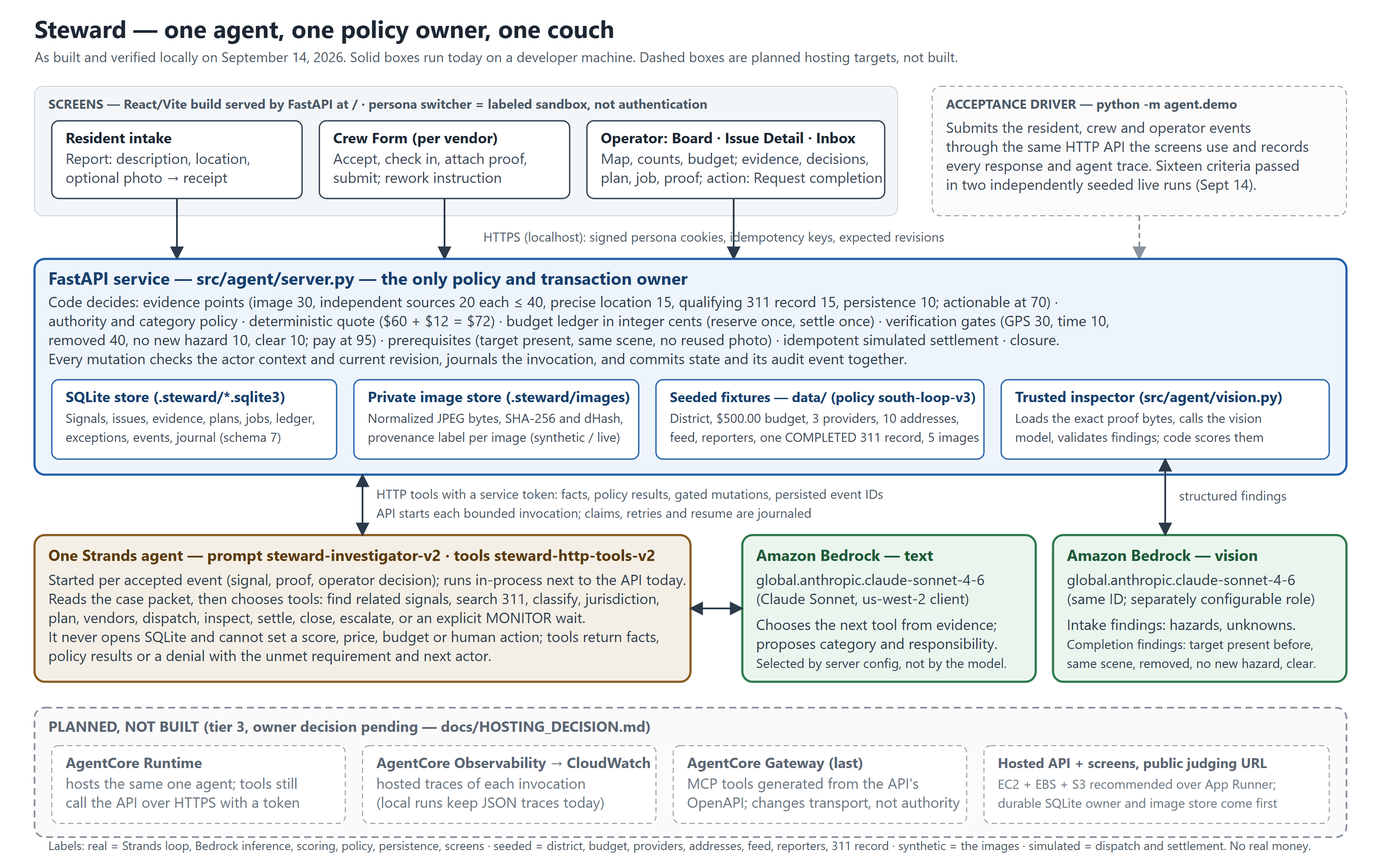
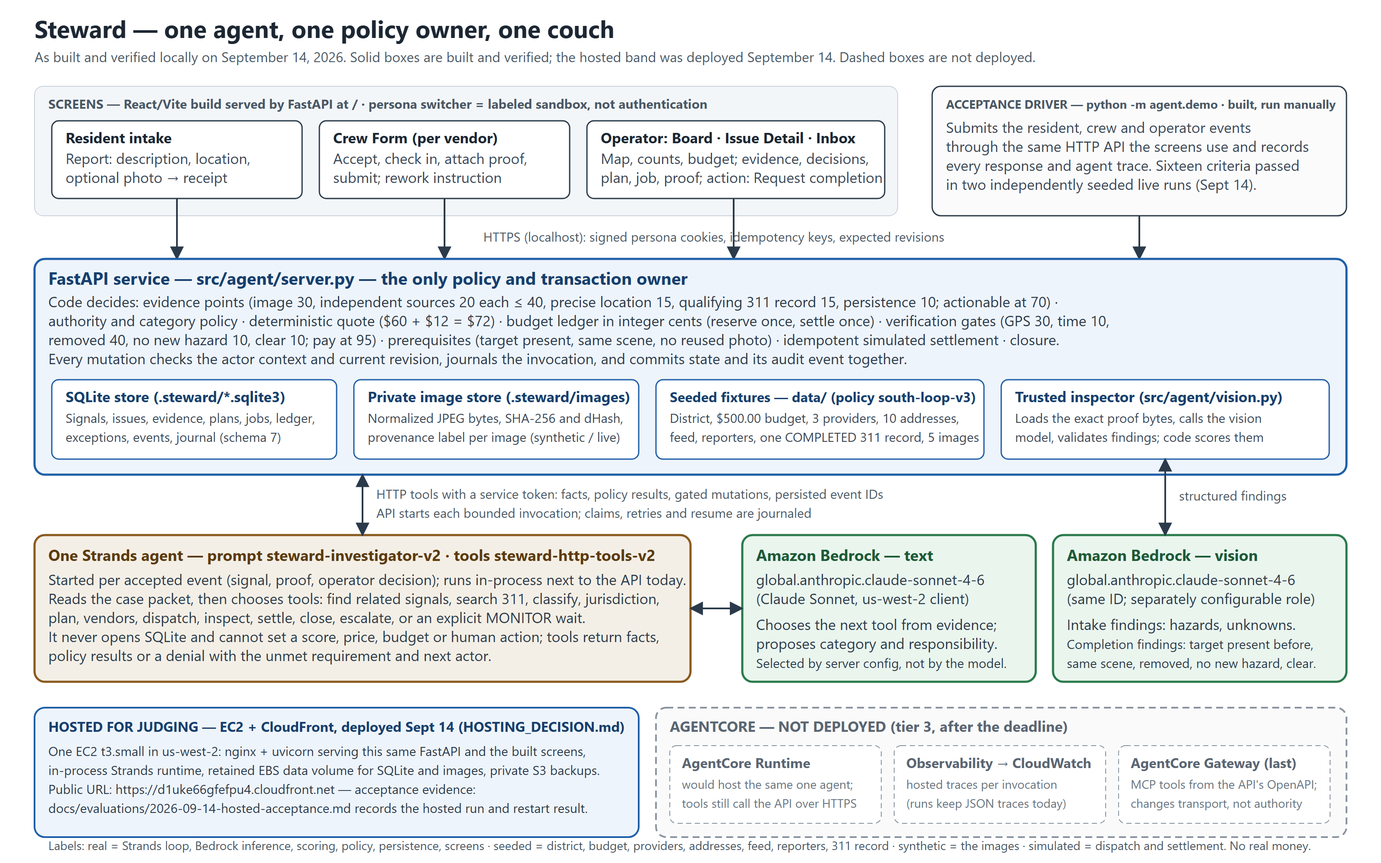
Fix round 1: hosted judging URL, honest credential wording, repo URL, npm ci
SUBMISSION.md names the real public repository URL (the git remote,
github.com/juulsverne/steward), makes the hosted EC2 + CloudFront system
the primary judging access with clone-and-run as the fallback, and states
that the hosted acceptance evidence file records the result rather than
claiming it. The credential line now says no secrets were found and names
the two low-sensitivity local-path disclosures (a tracked plan file and
one historical commit). README and ARCHITECTURE carry the same hosting
status; AgentCore Runtime, Observability and Gateway stay labeled not
deployed. The diagram's driver box is solid and its bottom band is split
into hosting (built) and AgentCore (not deployed); PNG re-rendered.
README and DEMO use npm ci, state the Node version and the jsdom engine
warning, and say to seed before the first start.

Changed region(s): [[0.0312, 0.837, 0.9375, 0.961], [0.3125, 0.062, 0.9688, 0.124], [0.8125, 0.248, 0.8438, 0.279]]

diff --git a/docs/SUBMISSION.md b/docs/SUBMISSION.md
@@ -16,11 +16,13 @@ A neighborhood operator hears about the same dumped couch three times: a communi
 
 **Who it is for.** District operators (business improvement districts, neighborhood associations, community-benefit organizations) who already pay approved providers for supplemental cleanup and who today reconcile reports, records and crew photos by hand. Residents report without knowing jurisdiction or contractor categories. Crews see exactly what remains after a rejection.
 
-**What was proven and what was not.** The sixteen-step couch acceptance passed live through the API in two independently seeded runs on September 14 with real Bedrock text and vision, and the same journey was driven again and read back on every screen (`docs/DEMO.md`, `docs/evaluations/2026-09-14-ui-walk.md`). 703 offline tests pass; a twelve-comparison vision check scored 12/12. The twenty-two-scenario internal evaluation has **not** run, so no accuracy or reliability figure is claimed. Nothing is hosted: AgentCore Runtime, Observability and Gateway and a public URL are planned, not built. The district, budget, providers, addresses, reporter identities, community feed and 311 record are seeded fixtures; the photos are synthetic images generated for this project with published prompts; dispatch and settlement are simulated. No real money or municipal work is involved.
+**What was proven and what was not.** The sixteen-step couch acceptance passed live through the API in two independently seeded runs on September 14 with real Bedrock text and vision, and the same journey was driven again and read back on every screen (`docs/DEMO.md`, `docs/evaluations/2026-09-14-ui-walk.md`). 703 offline tests pass; a twelve-comparison vision check scored 12/12. The twenty-two-scenario internal evaluation has **not** run, so no accuracy or reliability figure is claimed. Hosted for judging on EC2 + CloudFront (deployed September 14; acceptance evidence: docs/evaluations/2026-09-14-hosted-acceptance.md). The hosted acceptance run and restart durability proof were still in progress when this was written; that evidence file records the result. AgentCore Runtime, Observability and Gateway are not deployed. The district, budget, providers, addresses, reporter identities, community feed and 311 record are seeded fixtures; the photos are synthetic images generated for this project with published prompts; dispatch and settlement are simulated. No real money or municipal work is involved.
 
 ## Judging access
 
-There is **no hosted URL**. Judging access is the documented clone-and-run path in [README.md](../README.md#run-it-yourself): clone the repository, `uv sync --locked --extra dev --extra web`, build the frontend, put two generated secrets and your own AWS profile in `.env`, seed, start the API with `STEWARD_RUNTIME_ENABLED=true`, and run `python -m agent.demo`. It requires the judge's own AWS account with Bedrock access to `global.anthropic.claude-sonnet-4-6` and costs a few dollars of inference per full run. Everything else (screens, tests, the offline scoring harness, the seeded state) runs without AWS. The rules ask for free, unrestricted access through October 8; a bring-your-own-AWS setup is the fallback we can offer today and is disclosed as such. If the owner later authorizes hosting, the URL goes in "Final links" below and this paragraph changes.
+**Primary: the hosted system.** Hosted for judging on EC2 + CloudFront (deployed September 14; acceptance evidence: docs/evaluations/2026-09-14-hosted-acceptance.md). Public URL: `https://d1uke66gfefpu4.cloudfront.net` — one EC2 `t3.small` in `us-west-2` with a retained EBS data volume for SQLite and images, private S3 backups, nginx + uvicorn, the in-process Strands runtime, behind CloudFront. It serves `/health` and the Board; pick a persona in the header (a labeled sandbox, not authentication) and walk the Board, Issue Detail, Inbox, Crew Form and Report screens. The hosted acceptance run and the restart/reboot durability proof are recorded by the hosting worker in `docs/evaluations/2026-09-14-hosted-acceptance.md`, with the decision in [HOSTING_DECISION.md](HOSTING_DECISION.md); this checklist does not claim their result. The rules ask for free, unrestricted access through October 8; the owner keeps the instance up through that date.
+
+**Fallback: clone and run.** The documented path in [README.md](../README.md#run-it-yourself): clone the repository, `uv sync --locked --extra dev --extra web`, build the frontend, put two generated secrets and your own AWS profile in `.env`, seed, start the API with `STEWARD_RUNTIME_ENABLED=true`, and run `python -m agent.demo`. It requires the judge's own AWS account with Bedrock access to `global.anthropic.claude-sonnet-4-6` and costs a few dollars of inference per full run. Everything else (screens, tests, the offline scoring harness, the seeded state) runs without AWS.
 
 ## What is implemented and what is not
 
@@ -35,8 +37,8 @@ There is **no hosted URL**. Judging access is the documented clone-and-run path 
 | Synthetic images with prompts and fingerprints; supplemental evaluation images | Implemented and documented |
 | Twenty-two-scenario internal evaluation (`python -m agent.evaluate`) | **Not run; command not built (P8)** |
 | Plain-model comparison arm | Not built (tier 4) |
-| AgentCore Runtime / Observability / Gateway | **Not built (tier 3)** |
-| Hosted API and screens with a public judging URL | **Not built**; recommendation in [HOSTING_DECISION.md](HOSTING_DECISION.md), owner decision pending |
+| AgentCore Runtime / Observability / Gateway | **Not deployed** (tier 3); the agent runs in-process next to the API, locally and on the hosted instance |
+| Hosted API and screens with a public judging URL | Hosted for judging on EC2 + CloudFront (deployed September 14; acceptance evidence: docs/evaluations/2026-09-14-hosted-acceptance.md); decision in [HOSTING_DECISION.md](HOSTING_DECISION.md) |
 | Live Chicago 311 lookup, Amazon Location geocoding | Not built (tier 4, flags); seeded fixtures are used |
 | Clean-install proof from a fresh clone with recorded commands | In progress (R1) on September 14; not yet recorded here |
 | Real payments, identity verification, policy editor, multiple agents | Excluded by design (PRD 4.6) |
@@ -50,9 +52,9 @@ There is **no hosted URL**. Judging access is the documented clone-and-run path 
 - [x] Recording script for a demo of at most five minutes ([DEMO.md](DEMO.md#recording-script--maximum-5-minutes)).
 - [x] Disclosure of incorporated pre-existing work and third-party rights (below).
 - [ ] **Owner:** register on Devpost and provide the AWS Builder ID.
-- [ ] **Owner:** make the repository public with all source, assets and instructions (the frontend footer already links to `https://github.com/juulsverne/agents-for-humans`; confirm that is the public URL or change the footer).
+- [ ] **Owner:** make the repository public with all source, assets and instructions. Public repository URL: `https://github.com/juulsverne/steward` (the git remote; the frontend footer's Source link points there too). It is private until the owner flips it.
 - [ ] **Owner:** record the video from the script, upload it to YouTube or Vimeo as public, and test the link signed out.
-- [ ] **Owner:** judging access — paste the clone-and-run paragraph above, or a hosted URL if one is authorized later.
+- [ ] **Owner:** judging access — paste the hosted URL and the clone-and-run fallback from above; keep the instance running through October 8.
 - [ ] **Owner:** save the Devpost submission and verify it before the deadline.
 
 ## Steward release checks
@@ -63,7 +65,7 @@ There is **no hosted URL**. Judging access is the documented clone-and-run path 
 - [ ] Clean install from scratch with recorded commands and results (R1, in progress).
 - [x] Real/seeded/synthetic/simulated labels match runtime behavior, screenshots and the recording script.
 - [ ] Evaluation counts, denominators, failures and limitations — **not available; the evaluation has not run.** The video and description say so.
-- [x] No credentials or private material in the published tree or history (see the provenance pass below).
+- [x] No secrets or credentials in the tree or history; two low-sensitivity local-path disclosures remain and are named in the rights section below, flagged for the owner.
 - [ ] **Owner:** video, repository, judging access and submission links tested while signed out.
 - [ ] **Owner:** Devpost submission saved and verified.
 
@@ -74,16 +76,16 @@ There is **no hosted URL**. Judging access is the documented clone-and-run path 
 - Map tiles are requested from `tile.openstreetmap.org` at runtime with the "Map data © OpenStreetMap contributors" caption shown under the map; nothing is cached or redistributed.
 - The five demo images and six supplemental images are synthetic, generated for this project on September 13 from prompts published in [data/images/PROVENANCE.md](../data/images/PROVENANCE.md) and [data/images/supplemental/PROMPTS.md](../data/images/supplemental/PROMPTS.md); fingerprints are in the manifests. The generation tool's terms govern their use; they depict no real place, person or incident.
 - All other fixtures (district, budget, providers, addresses, reporters, feed, 311 record) are invented demo data ([data/README.md](../data/README.md)). Chicago and the South Loop are used as a setting only; no municipal data or authority is claimed.
-- The credential/provenance pass on September 14 grepped the tree and full history for keys, tokens and private paths; `.env`, `.steward/`, local notes and worktrees are gitignored and absent from history. Findings are in the P9 report; anything unresolved is listed there for the owner.
+- The credential/provenance pass on September 14 grepped the tree and full history for keys, tokens and private paths. No secrets or credentials were found; `.env`, `.steward/`, local notes and worktrees are gitignored and were never committed. Two low-sensitivity local-path disclosures remain, flagged for the owner: the tracked plan file `docs/superpowers/plans/2026-09-14-frontend.md` contains the literal path `D:\devgents-for-humans\.worktrees\steward-build`, and the historical commit `2a49c02` (reachable from `main`; its files `docs/MAC-REMOTE.md` and `scripts/mac-session.sh` were removed in `c2f4497` but not purged) contains `/Users/cara/...` paths and an ssh host alias `mac-mini-tailscale`. Neither contains a credential.
 
 ## Tiers 3 and 4 after the deadline
 
-AgentCore Runtime, Observability and Gateway plus a hosted judging URL are tier 3; live 311, Amazon Location and the plain-model evaluation arm are tier 4. [EVALUATION.md](EVALUATION.md) defines equal model/input conditions and how any separate model arm must disclose its differences. None of these displaces the working couch, the evaluation, README, diagram or video. The AWS credit request deadline (September 11) has passed and is not an open prerequisite.
+AgentCore Runtime, Observability and Gateway are the remaining tier 3 items (the hosted judging URL is deployed); live 311, Amazon Location and the plain-model evaluation arm are tier 4. [EVALUATION.md](EVALUATION.md) defines equal model/input conditions and how any separate model arm must disclose its differences. None of these displaces the working couch, the evaluation, README, diagram or video. The AWS credit request deadline (September 11) has passed and is not an open prerequisite.
 
 ## Final links — fill when real
 
-- Public repository: pending owner action (see the footer URL note above)
-- Judging access and instructions: clone-and-run, [README.md](../README.md#run-it-yourself); hosted URL none
+- Public repository: `https://github.com/juulsverne/steward` (private until the owner makes it public)
+- Judging access and instructions: `https://d1uke66gfefpu4.cloudfront.net` (hosted, see above); clone-and-run fallback in [README.md](../README.md#run-it-yourself)
 - Public video: pending owner recording and upload
 - Devpost submission: pending owner action
-- Clean-install/acceptance run evidence: acceptance in [DEMO.md](DEMO.md#run-artifacts) and the [UI walk](evaluations/2026-09-14-ui-walk.md); clean install pending R1
+- Clean-install/acceptance run evidence: local acceptance in [DEMO.md](DEMO.md#run-artifacts) and the [UI walk](evaluations/2026-09-14-ui-walk.md); hosted acceptance in `docs/evaluations/2026-09-14-hosted-acceptance.md` (written by the hosting worker); clean install in the R1 report, pending integration

diff --git a/README.md b/README.md
@@ -10,7 +10,9 @@ Built for the **Good Neighbor Agents** track of the AWS Agents for Humans Hackat
 
 **Done and verified locally.** The full couch journey runs end to end with real Bedrock inference: the sixteen-step acceptance passed through the API in two independently seeded live runs (Sonnet text and vision, `us-west-2`; B13 receipt in [BUILD_PLAN.md](docs/BUILD_PLAN.md#b13-completion-receipt--september-14)), and the same journey was driven again on September 14 and read back on the operations UI — Board, Issue Detail, Operator Inbox, Crew Form and Resident intake — with screenshots per criterion in [the UI walk](docs/evaluations/2026-09-14-ui-walk.md). The offline suite is 703 tests; the twelve-comparison vision check is 12/12 ([vision spike](docs/evaluations/2026-09-13-vision-spike.md)); the model screen is in [MODEL_SELECTION.md](docs/MODEL_SELECTION.md).
 
-**Not done.** The twenty-two-scenario internal evaluation ([EVALUATION.md](docs/EVALUATION.md)) has not run, so no evaluation counts are published. Nothing is hosted: AgentCore Runtime, Observability, Gateway and a public judging URL are planned, not built; the hosting recommendation in [HOSTING_DECISION.md](docs/HOSTING_DECISION.md) awaits the owner's decision. Judging access is therefore clone-and-run with your own AWS Bedrock access ([SUBMISSION.md](docs/SUBMISSION.md)). Clean-install proof from a fresh clone is being recorded separately (R1); the run below was verified on the developers' machines.
+**Hosted.** Hosted for judging on EC2 + CloudFront (deployed September 14; acceptance evidence: docs/evaluations/2026-09-14-hosted-acceptance.md). Public URL: `https://d1uke66gfefpu4.cloudfront.net` — one EC2 `t3.small` in `us-west-2` with a retained EBS volume for SQLite and images, private S3 backups, nginx + uvicorn and the in-process Strands runtime, behind CloudFront; the decision is in [HOSTING_DECISION.md](docs/HOSTING_DECISION.md). The hosted acceptance run and restart durability proof were in progress when this was written; the evidence file records their result. AgentCore Runtime, Observability and Gateway are **not deployed**.
+
+**Not done.** The twenty-two-scenario internal evaluation ([EVALUATION.md](docs/EVALUATION.md)) has not run, so no evaluation counts are published. Clean-install proof from a fresh clone was recorded separately (R1) and is pending integration; the run below was verified on the developers' machines. Judging access is the hosted URL, with clone-and-run using your own AWS Bedrock access as the fallback ([SUBMISSION.md](docs/SUBMISSION.md)).
 
 **What the demo is.** A driven live run: the agent and vision calls are real Bedrock calls; the district, authority, budget, providers, addresses, reporter identities, community feed and the 311 record are seeded fixtures; the five photos are synthetic images with published prompts ([provenance](data/images/PROVENANCE.md)); dispatch and settlement are simulated. No real money or municipal work is authorized. Labels travel with the records and are shown on the screens.
 
@@ -18,17 +20,17 @@ The competition proof is one couch: wait at evidence score 65; corroborate at 85
 
 ## Run it yourself
 
-You need: Python 3.11+, [uv](https://docs.astral.sh/uv/), Node.js 22 or newer with npm, the AWS CLI, and an AWS account with Amazon Bedrock model access to `global.anthropic.claude-sonnet-4-6` (a cross-region inference profile; the client binds to `us-west-2`). Each full run makes five agent invocations plus the photo inspections (about 574k input tokens in the recorded run); you pay for that inference. The recorded runs were made on Windows 11 in Git Bash; nothing in the commands is Windows-specific.
+You need: Python 3.11+, [uv](https://docs.astral.sh/uv/), Node.js 22 or newer with npm (`npm ci` prints an `EBADENGINE` warning but still installs under Node 24.12–24.14 because of the frontend's `jsdom` devDependency), the AWS CLI, and an AWS account with Amazon Bedrock model access to `global.anthropic.claude-sonnet-4-6` (a cross-region inference profile; the client binds to `us-west-2`). Each full run makes five agent invocations plus the photo inspections (about 574k input tokens in the recorded run); you pay for that inference. The recorded runs were made on Windows 11 in Git Bash; nothing in the commands is Windows-specific.
 
 ### 1. Install
 
 ```bash
 git clone <this repository> && cd agents-for-humans
 uv sync --locked --extra dev --extra web
-cd frontend && npm install && npm run build && cd ..
+cd frontend && npm ci && npm run build && cd ..
 ```
 
-The frontend build lands in `frontend/dist`, which the API serves at `/`.
+`npm ci` is the locked, reproducible install (`frontend/package-lock.json` is committed). The frontend build lands in `frontend/dist`, which the API serves at `/`.
 
 ### 2. Configure
 
@@ -53,6 +55,8 @@ uv run --no-sync python -m agent.bedrock_check
 It must print a successful tool result and final model reply. `aws login` issues short-lived tokens that botocore refreshes through the sign-in endpoint of the profile's own region; Steward resolves credentials there and binds only the Bedrock client to `AWS_REGION` (`agent.aws_session.region_session`). If the preflight reports `CreateOAuth2Token ... authorization grant is invalid`, run `aws login` again. Keep credentials out of source control.
 
 ### 3. Seed and start
+
+Seed a fresh named database before the first start; without it the Board is empty (no issue, $0 budget, no marker):
 
 ```bash
 uv run --no-sync python -m agent.seed --db .steward/steward.sqlite3
@@ -122,7 +126,7 @@ The foundation harness prints **OFFLINE FOUNDATION CHECK** and proves scoring an
 - [Sixteen acceptance criteria and the recording script](docs/DEMO.md)
 - [Internal evaluation protocol (not yet run)](docs/EVALUATION.md)
 - [Model choices: each step, costs, live comparison and qualification gates](docs/MODEL_SELECTION.md)
-- [Hosting decision (recommendation, not built)](docs/HOSTING_DECISION.md)
+- [Hosting decision (EC2 + CloudFront, deployed September 14)](docs/HOSTING_DECISION.md)
 - [Submission checklist and judging access](docs/SUBMISSION.md)
 - [Post-competition company vision](docs/VISION.md)
 - [Coding-agent instructions](AGENTS.md)
@@ -142,7 +146,7 @@ docs/evaluations/   Vision spike report, model-screen export, UI walk and screen
 scripts/            Acceptance runner, link checker, OpenAPI/model-screen exporters, preflight
 ```
 
-Next: record the video from [DEMO.md](docs/DEMO.md), publish the repository and save the submission (owner actions in [SUBMISSION.md](docs/SUBMISSION.md)); then, after the deadline, the P8 evaluation, the hosting decision and the hosted judging URL (H1–H6). Product thresholds, exclusions and labels do not change to make any of that easier.
+Next: record the video from [DEMO.md](docs/DEMO.md), publish the repository and save the submission (owner actions in [SUBMISSION.md](docs/SUBMISSION.md)); keep the hosted instance up through October 8; then, after the deadline, the P8 evaluation and AgentCore Runtime/Observability/Gateway. Product thresholds, exclusions and labels do not change to make any of that easier.
 
 ## Demo boundaries and license
 

diff --git a/docs/DEMO.md b/docs/DEMO.md
@@ -46,7 +46,7 @@ These cases are covered by the offline suite (`uv run --no-sync pytest -q`, 703 
 **Before recording (about 15 minutes, off camera).**
 
 1. `aws login --profile <your profile>` (or otherwise refresh credentials), then `uv run --no-sync python -m agent.bedrock_check` must pass. Run nothing else against Bedrock during the recording; a concurrent workload can throttle the run and end an invocation.
-2. `cd frontend && npm install && npm run build && cd ..` so the API serves the screens at `http://localhost:8000/`.
+2. `cd frontend && npm ci && npm run build && cd ..` so the API serves the screens at `http://localhost:8000/`.
 3. Fresh store: `uv run --no-sync python -m agent.seed --db .steward/video.sqlite3 --reset`.
 4. Start the API in a visible terminal: `STEWARD_STORE_PATH=.steward/video.sqlite3 STEWARD_RUNTIME_ENABLED=true uv run --no-sync uvicorn agent.server:app --port 8000 --host 127.0.0.1`. The startup scan runs the seeded signal's pending invocation at once (one real Bedrock invocation, under a minute): the issue becomes MONITORING at 65 with the wait reasons saved. Wait for it before recording; Issue Detail shows the MONITOR decision when it is done.
 5. Open a second terminal for the driver and a browser at `http://localhost:8000/`, light theme, 1280 px wide, persona **Operator**. Have `docs/evaluations/ui/` and `architecture.png` open as fallbacks if a screen misbehaves; label any still image as "screenshot from the September 14 walk".
@@ -59,7 +59,7 @@ These cases are covered by the offline suite (`uv run --no-sync pytest -q`, 703 
 | Time | Scene and screen | Click / show | Say (short) | Proves | Truth label on screen |
 |---|---|---|---|---|---|
 | 0:00–0:25 | 1. Title card, then the Board after the API start (Take A) | Board `/` as Operator: the couch issue under Watching, "No decisions waiting", $500.00 available | A district gets scattered reports, a closed city record that may be wrong, and crews whose photos may show half a job. Steward turns that into one verified physical resolution and brings a person only the decision that needs one. | — | "Seeded district, fixtures, simulated money" (the footer says it too) |
-| 0:25–0:50 | 2. `architecture.png` | Point at the three boxes | One Strands agent on Bedrock chooses what to do next through typed HTTP tools. FastAPI owns policy, scores, prices, budget, verification and settlement; the agent never opens the database. A trusted Bedrock vision call inspects each photo and returns findings that code scores. The hosted boxes are planned, not built; today runs locally. | design | "Hosted targets: planned, not built" |
+| 0:25–0:50 | 2. `architecture.png` | Point at the three boxes | One Strands agent on Bedrock chooses what to do next through typed HTTP tools. FastAPI owns policy, scores, prices, budget, verification and settlement; the agent never opens the database. A trusted Bedrock vision call inspects each photo and returns findings that code scores. The same system is hosted for judging on EC2 behind CloudFront (deployed today; its acceptance evidence is a separate file); AgentCore is not deployed. This recording runs locally. | design | "Hosted: EC2 + CloudFront · AgentCore: not deployed" |
 | 0:50–1:20 | 3. Issue Detail `/issues/demo-couch` before the driver runs (Take A) | Evidence points 65 of 70 needed; the official record COMPLETED with lookup `seeded_adapter`, conflict pending; the latest decision MONITOR with its wait and unlock conditions; no plan, no job | The first photo and a precise location score 65 of the 70 needed. The 311 lookup returns a **completed** city record; a completed record earns nothing. Steward records the conflict and waits, saying what would unlock action. No job, no money. This invocation already ran against Bedrock when the API started. | 1, 2 | "65/70 — WAITING"; "311 record: seeded fixture" |
 | 1:20–1:35 | 4. Terminal (Take A) | Start the driver; show the `criterion-1` and `criterion-2` lines, then leave it running | This is a live run: real Bedrock calls, synthetic photos, seeded fixtures, simulated dispatch and settlement. The driver submits the resident, crew and operator actions through the same API the screens use; nothing edits the database by hand. | run is live | "Live run — recorded September 14, cut for time" |
 | 1:35–2:05 | 5. Issue Detail `/issues/demo-couch` | Scroll from the top: sources with provenance tags, evidence points table, the conflict block | A second resident reported the same couch through the form — that source is labeled live, the first is seeded. Two observations newer than the city's completion time confirm the dispute; the record is now credited and the score is 100. Completion time and observation times sit side by side; the issue stays open. | 3, 4, 5 | "seeded" / "live" provenance tags on screen |
@@ -90,7 +90,7 @@ The intake photo contract now defines `visible_hazards` as specialist safety haz
 
 ## Run artifacts
 
-- Setup used on September 14 (Windows, worktree `codex/steward-build`): `uv run --no-sync python -m agent.seed --db .steward/ui.sqlite3`; API `STEWARD_STORE_PATH=.steward/ui.sqlite3 STEWARD_DEVELOPMENT_ORIGINS=http://localhost:5173 STEWARD_RUNTIME_ENABLED=true uv run --no-sync uvicorn agent.server:app --port 8000 --host 127.0.0.1`; driver `uv run --no-sync python -m agent.demo --base-url http://localhost:8000 --out .steward/ui-run.json --wait-seconds 240`; UI `cd frontend && npm install && npm run build`, then open `http://localhost:8000/`.
+- Setup used on September 14 (Windows, worktree `codex/steward-build`): `uv run --no-sync python -m agent.seed --db .steward/ui.sqlite3`; API `STEWARD_STORE_PATH=.steward/ui.sqlite3 STEWARD_DEVELOPMENT_ORIGINS=http://localhost:5173 STEWARD_RUNTIME_ENABLED=true uv run --no-sync uvicorn agent.server:app --port 8000 --host 127.0.0.1`; driver `uv run --no-sync python -m agent.demo --base-url http://localhost:8000 --out .steward/ui-run.json --wait-seconds 240`; UI `cd frontend && npm install && npm run build` (use `npm ci` for a reproducible install), then open `http://localhost:8000/`.
 - Model `global.anthropic.claude-sonnet-4-6` for text and vision, region from `.env`; policy version `south-loop-v3`; fixture scenario `baseline`; seed version `south-loop-demo-b3`.
 - Event trace and run artifact: `.steward/ui-run.json` (run 14:06 to 14:08 CDT, criteria 1 to 15 passed) and `.steward/walk4-run.json` (second seeded run at 14:42 CDT with `--compare`, all sixteen passed). Run artifacts are local (`.steward/` is not committed); the walk document records their results.
 - UI walk with screenshots and pass/fail per criterion: `docs/evaluations/2026-09-14-ui-walk.md`.

diff --git a/docs/ARCHITECTURE.md b/docs/ARCHITECTURE.md
@@ -1,6 +1,6 @@
 # Steward architecture and implementation contract
 
-**As built, September 14, 2026.** The local system in this contract exists and is verified: FastAPI (`src/agent/server.py`) owns SQLite state, the private image store, policy at every mutation, the trusted vision inspector and the invocation journal; one Strands agent runs in-process per accepted event and reaches the API only through HTTP tools with a service token; Bedrock `global.anthropic.claude-sonnet-4-6` serves both the text and vision roles from a `us-west-2` client. The sixteen-step couch passed live through the API twice and once more on the screens ([DEMO.md](DEMO.md), [UI walk](evaluations/2026-09-14-ui-walk.md)). The hosted targets in the diagram below — AgentCore Runtime, Observability, Gateway and a public App Runner/EC2 URL — are **planned, not built**; the durable-hosting decision is open ([HOSTING_DECISION.md](HOSTING_DECISION.md)). The exported, implementation-accurate diagram is [architecture.png](../architecture.png) at the repository root; its editable source is [architecture.svg](architecture.svg). The sections that follow are the contract the code was built against; where they describe hosting, read them as the target.
+**As built, September 14, 2026.** The local system in this contract exists and is verified: FastAPI (`src/agent/server.py`) owns SQLite state, the private image store, policy at every mutation, the trusted vision inspector and the invocation journal; one Strands agent runs in-process per accepted event and reaches the API only through HTTP tools with a service token; Bedrock `global.anthropic.claude-sonnet-4-6` serves both the text and vision roles from a `us-west-2` client. The sixteen-step couch passed live through the API twice and once more on the screens ([DEMO.md](DEMO.md), [UI walk](evaluations/2026-09-14-ui-walk.md)). Hosted for judging on EC2 + CloudFront (deployed September 14; acceptance evidence: docs/evaluations/2026-09-14-hosted-acceptance.md) — one EC2 `t3.small` in `us-west-2` with a retained EBS data volume for SQLite and images, private S3 backups, nginx + uvicorn and the in-process Strands runtime, behind CloudFront (`https://d1uke66gfefpu4.cloudfront.net`); the decision record is [HOSTING_DECISION.md](HOSTING_DECISION.md). AgentCore Runtime, Observability and Gateway are **not deployed**; the diagram labels them so. The exported, implementation-accurate diagram is [architecture.png](../architecture.png) at the repository root; its editable source is [architecture.svg](architecture.svg). The sections that follow are the contract the code was built against; where they describe hosting, read them as the target.
 
 Status as originally written, September 13: **target design with Tier 1A verified and Tier 1B policy/fixtures started**. The repository contained a Strands/Bedrock terminal and FastAPI starter plus validated signals, pure evidence scoring, and SQLite issue/source/event persistence. Preserve `src/agent/` and extend it; a cosmetic directory migration has no value this weekend.
 
@@ -20,16 +20,18 @@ flowchart TD
         A <--> B[Bedrock text: global.anthropic.claude-sonnet-4-6]
         API -->|trusted image inspection| V[Bedrock vision: same model ID, separate role setting]
     end
-    subgraph PLANNED[Planned, not built - owner decision pending]
+    subgraph HOSTED[Hosted for judging - deployed September 14]
+        H[EC2 t3.small us-west-2: nginx + uvicorn, retained EBS volume for SQLite and images, private S3 backups, behind CloudFront]
+    end
+    subgraph AGENTCORE[AgentCore - not deployed]
         RT[AgentCore Runtime hosting the same agent]
         O[AgentCore Observability: CloudWatch traces]
         GW[AgentCore Gateway: MCP tools from the API's OpenAPI]
-        H[Hosted API and screens with a public judging URL: EC2/EBS/S3 recommended over App Runner]
     end
+    H --> API
     RT -.-> A
     A -.-> O
     GW -.-> API
-    H -.-> API
 ```
 
 `architecture.png` at the repository root is the exported diagram (rendered from [architecture.svg](architecture.svg) with headless Chrome); the Mermaid block above is the same picture in text form.
